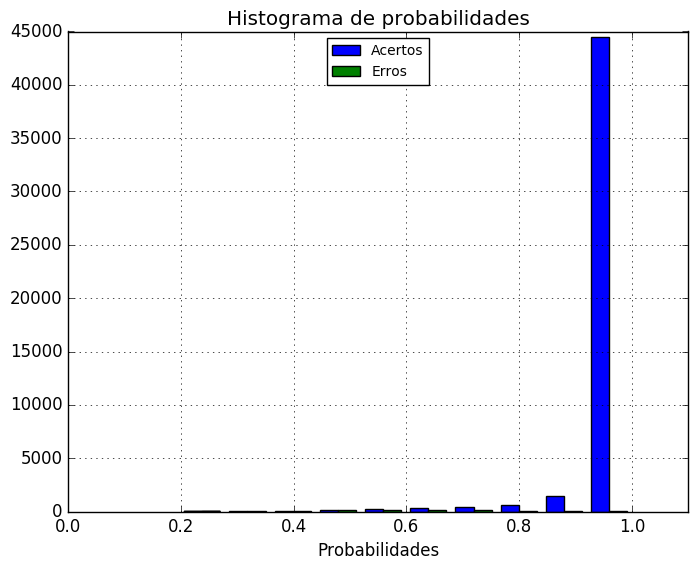
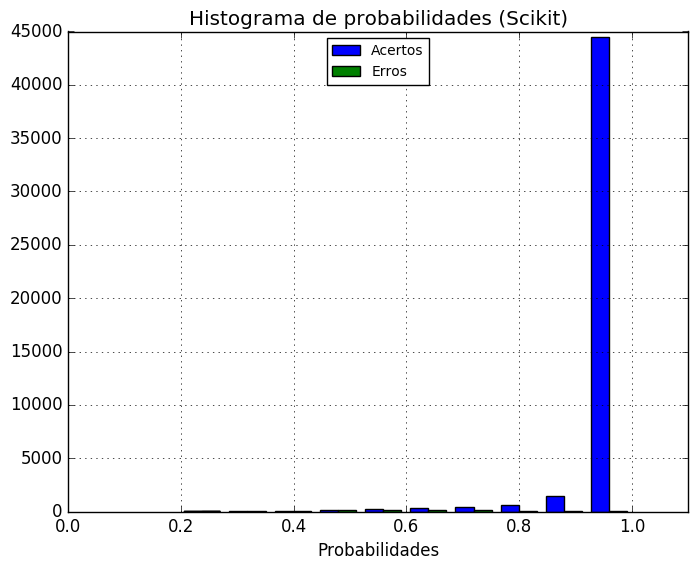
wip

Changed region(s): [[0.2708, 0.0, 0.8123, 0.0596]]

diff --git a/trab2/prob_distribution.py b/trab2/prob_distribution.py
@@ -7,7 +7,7 @@ def construct_dict(array):
     return {float(key): value for (key, value) in positions}
 
 
-def build_hist(file_path, save_path, real_labels):
+def build_hist(file_path, title, save_path, real_labels):
     with open(file_path) as f:
         label_location = construct_dict(f.readline().strip().split(' '))
         lines = f.readlines()
@@ -34,7 +34,7 @@ def build_hist(file_path, save_path, real_labels):
 
     plt.xlabel('Probabilidades')
     plt.xlim(0, 1.1)
-    plt.title('Histograma de probabilidades')
+    plt.title(title)
     plt.grid(True)
     plt.legend(prop={'size': 10}, loc='upper center')
 
@@ -45,11 +45,13 @@ if __name__ == '__main__':
     _, real_labels = load_svmlight_file('./teste.vet')
 
     file_path = './libsvm_prob_output'
+    title = 'Histograma de probabilidades (LibSVM)'
     save_path = 'prob_dist/libsvm.png'
 
-    build_hist(file_path, save_path, real_labels)
+    build_hist(file_path, title, save_path, real_labels)
 
     file_path = './scikit_svm_prob_output'
+    title = 'Histograma de probabilidades (Scikit)'
     save_path = 'prob_dist/scikit.png'
 
-    build_hist(file_path, save_path, real_labels)
+    build_hist(file_path, title, save_path, real_labels)
